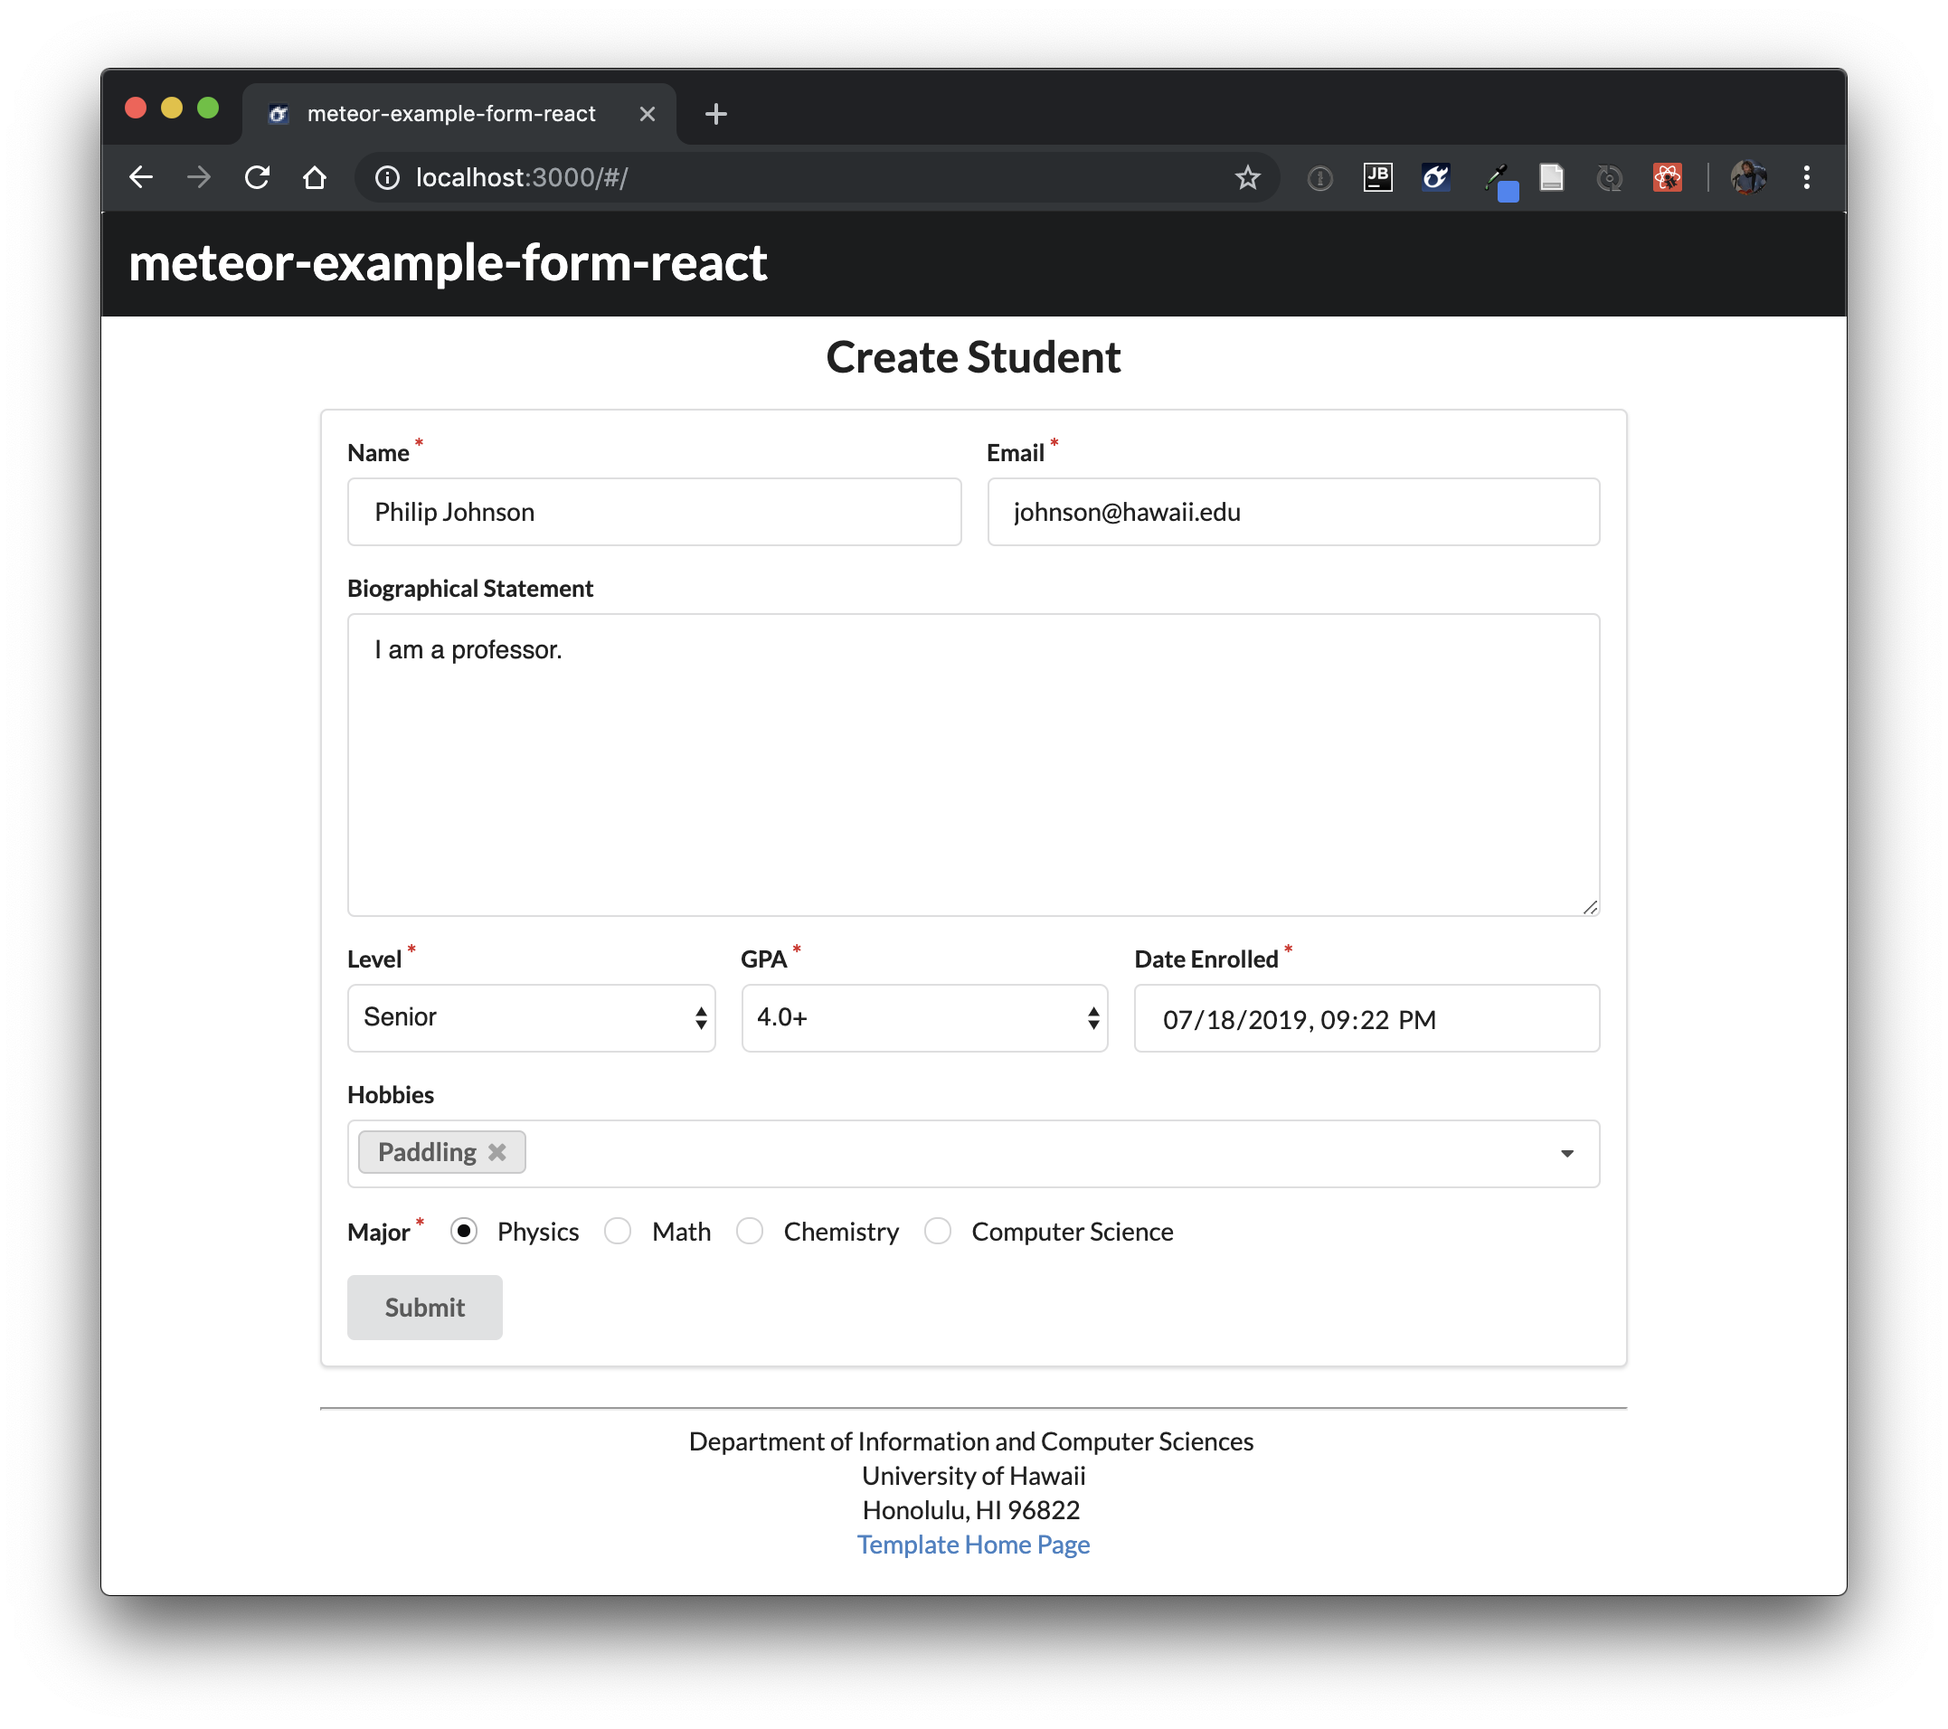
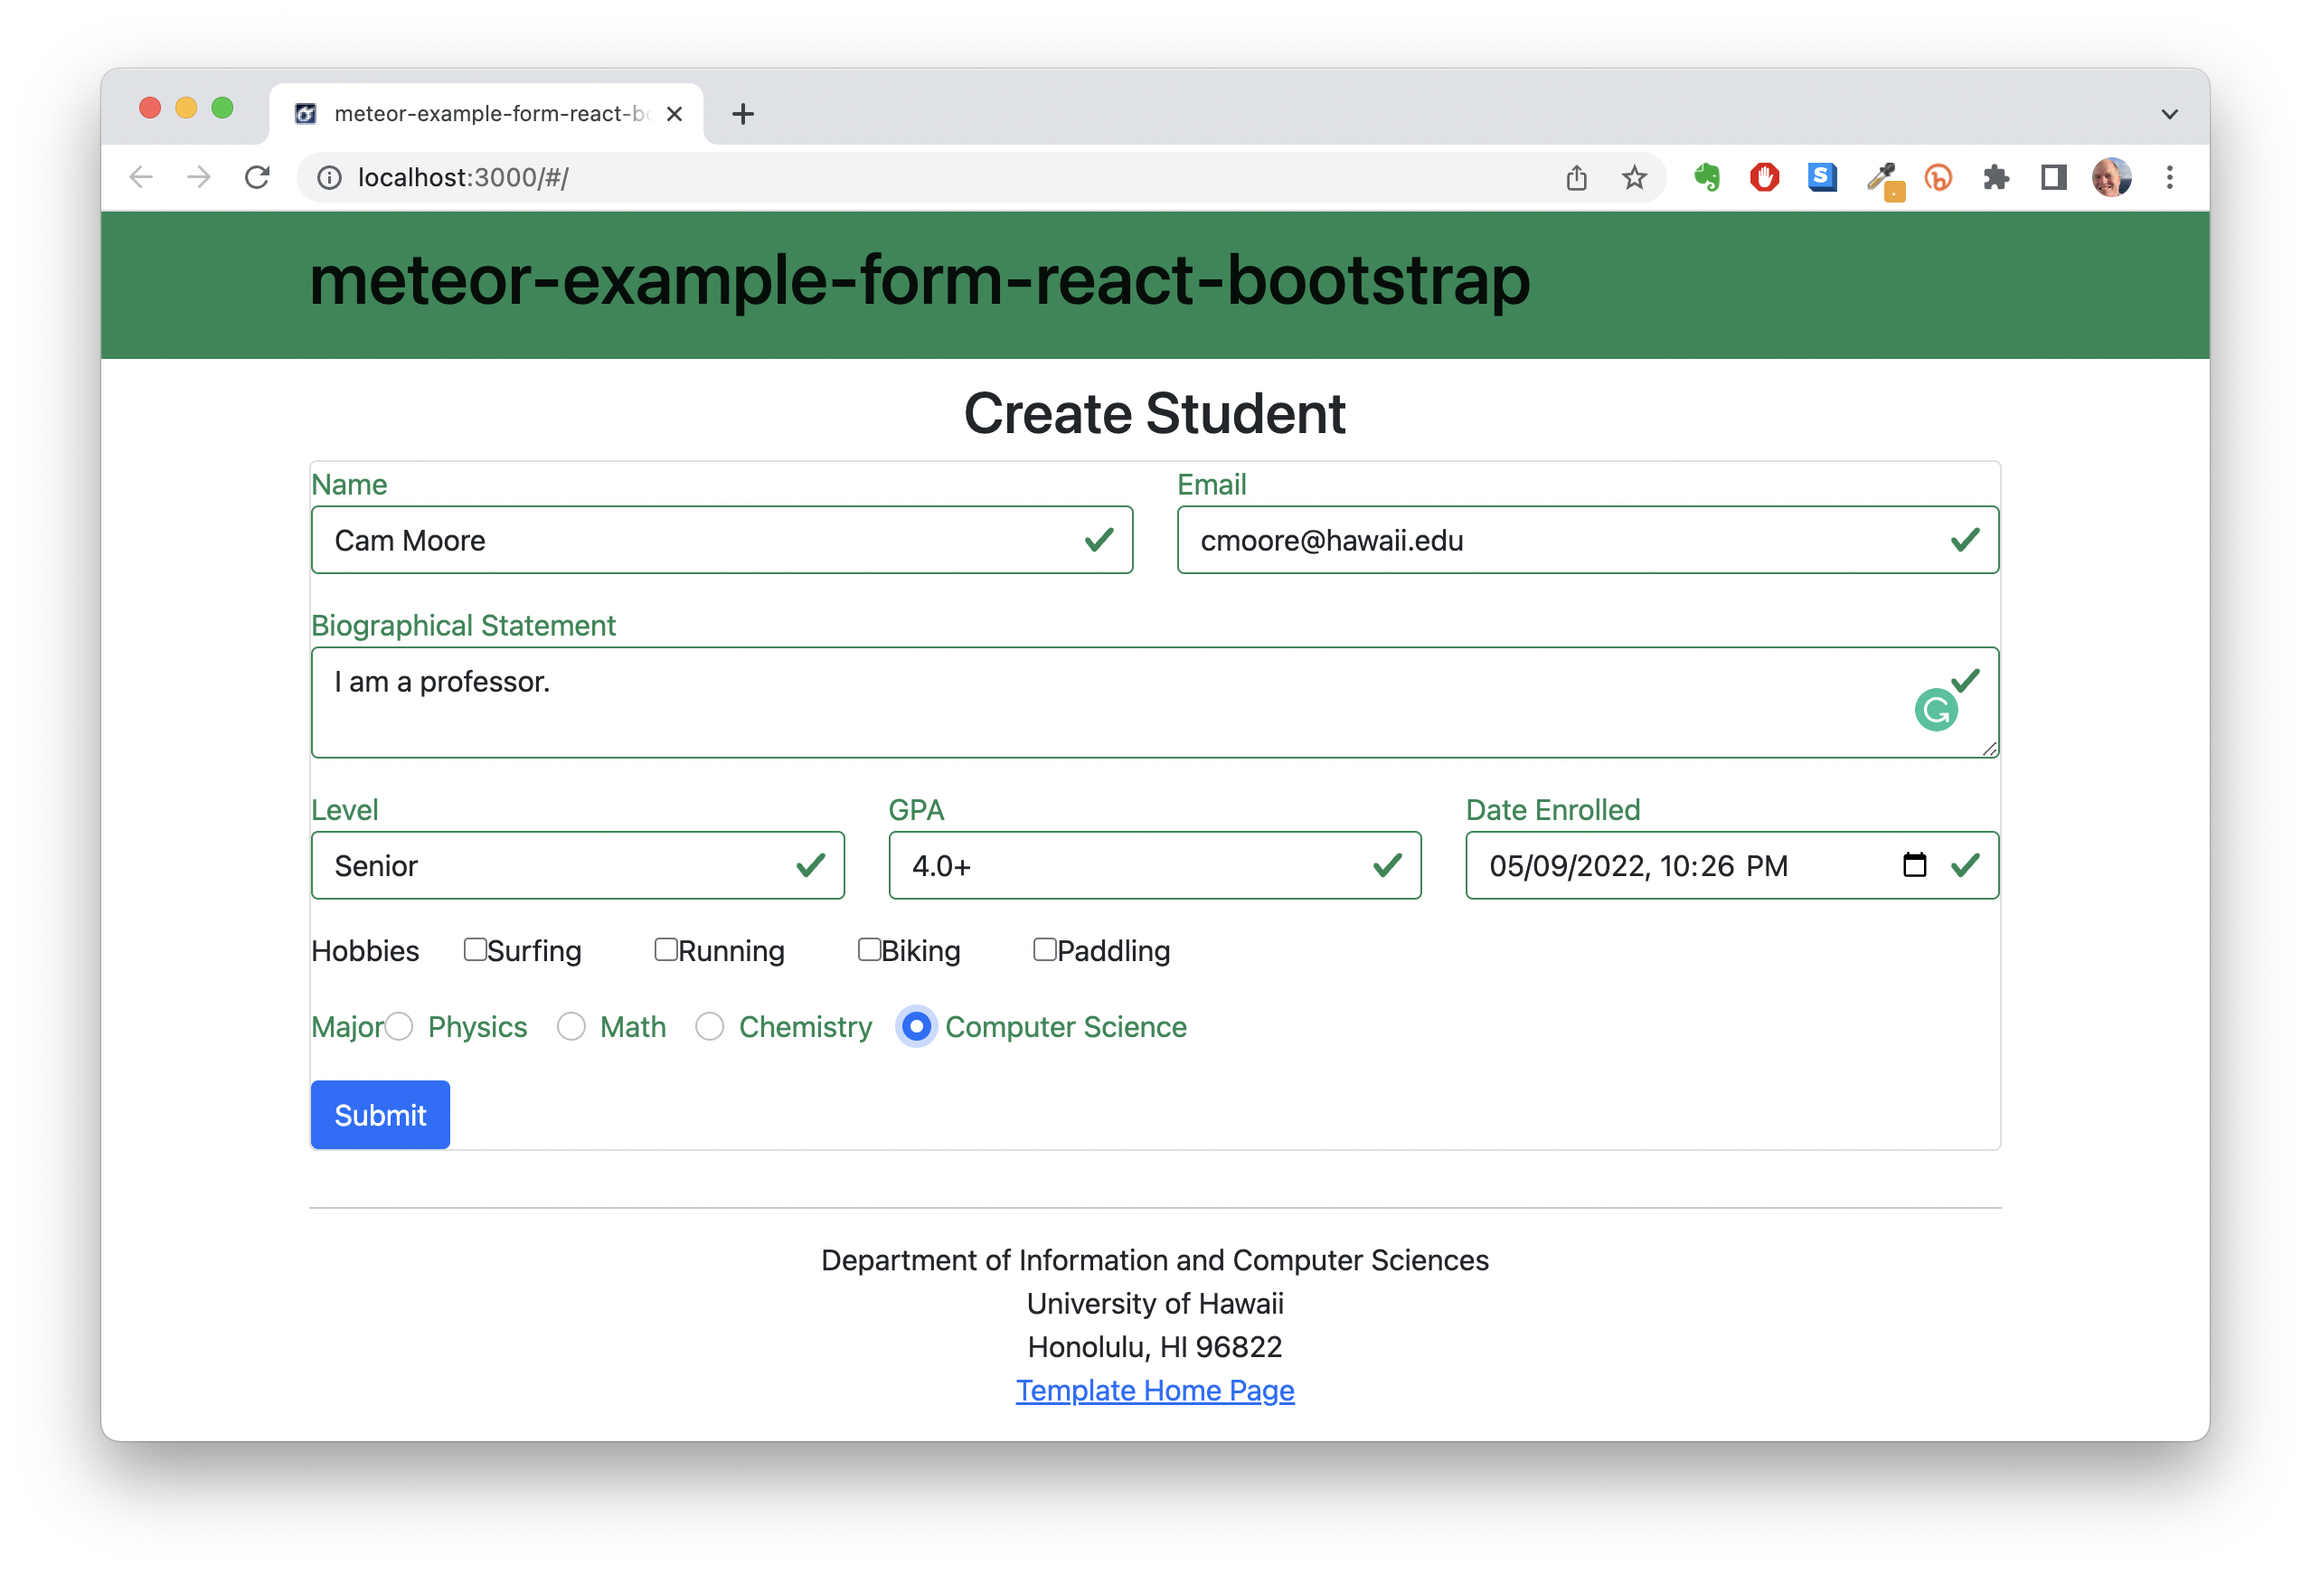
fixed the documentation.

diff --git a/app/imports/ui/components/NavBar.jsx b/app/imports/ui/components/NavBar.jsx
@@ -6,7 +6,7 @@ import { Container, Navbar } from 'react-bootstrap';
 const NavBar = () => {
   const menuStyle = { marginBottom: '10px' };
   return (
-    <Navbar bg="light" expand="lg" style={menuStyle}>
+    <Navbar bg="dark" expand="lg" style={menuStyle}>
       <Container>
         <Navbar.Brand as={NavLink} activeClassName="" exact to="/">
           <h1>meteor-example-form-react-bootstrap</h1>

diff --git a/index.md b/index.md
@@ -1,8 +1,8 @@
-![](https://raw.githubusercontent.com/ics-software-engineering/meteor-example-form-react/master/doc/create-student-page.png)
+![](https://raw.githubusercontent.com/ics-software-engineering/meteor-example-form-react-bootstrap/main/doc/create-student-page.png)
 
-meteor-example-form-react is a sample Meteor 2.4 application that illustrates how to use [Uniforms](https://uniforms.tools/) for form development.
+meteor-example-form-react is a sample Meteor 2.7.1 application that illustrates how to use [Uniforms](https://uniforms.tools/) for form development.
 
-Some of the features of this example:
+Some features of this example:
 
 * In order to focus on form processing, the application has just two pages: Create Student and Edit Student.
 * A variety of common controllers are shown: text box, text area, single selection, multiple selection, date selection, and radio boxes.
@@ -24,49 +24,25 @@ $ meteor npm install
 
 ## Running the system
 
-Once the libraries are installed, you can run the application by invoking the "start" script in the [package.json file](https://github.com/ics-software-engineering/meteor-example-form-react/blob/master/app/package.json):
+Once the libraries are installed, you can run the application by invoking the "start" script in the [package.json file](https://github.com/ics-software-engineering/meteor-example-form-react-bootstrap/blob/main/app/package.json):
 
 
 ```
-meteor npm run start
+% meteor npm run start
 
-> meteor-example-form-react@ start /Users/philipjohnson/github/ics-software-engineering/meteor-example-form-react/app
-> meteor --no-release-check --settings ../config/settings.development.json
+> meteor-example-form-react@ start /Users/carletonmoore/GitHub/ICS314/meteor-example-form-react-bootstrap/app
+> meteor --no-release-check --exclude-archs web.browser.legacy,web.cordova --settings ../config/settings.development.json
 
-[[[[[ ~/github/ics-software-engineering/meteor-example-form-react/app ]]]]]
+[[[[[ ~/GitHub/ICS314/meteor-example-form-react-bootstrap/app ]]]]]
 
-=> Started proxy.
-=> Started MongoDB.
-W20190718-11:08:30.749(-10)? (STDERR) Note: you are using a pure-JavaScript implementation of bcrypt.
-W20190718-11:08:30.770(-10)? (STDERR) While this implementation will work correctly, it is known to be
-W20190718-11:08:30.771(-10)? (STDERR) approximately three times slower than the native implementation.
-W20190718-11:08:30.771(-10)? (STDERR) In order to use the native implementation instead, run
-W20190718-11:08:30.771(-10)? (STDERR)
-W20190718-11:08:30.771(-10)? (STDERR)   meteor npm install --save bcrypt
-W20190718-11:08:30.771(-10)? (STDERR)
-W20190718-11:08:30.771(-10)? (STDERR) in the root directory of your application.
+=> Started proxy.                             
+=> Started HMR server.                        
+=> Started MongoDB.                           
+I20220509-12:33:04.931(-10)? Monti APM: completed instrumenting the app
 => Started your app.
 
 => App running at: http://localhost:3000/
 ```
-
-
-### Note regarding "bcrypt warning":
-
-You will get the following message when you run this application:
-
-```
-Note: you are using a pure-JavaScript implementation of bcrypt.
-While this implementation will work correctly, it is known to be
-approximately three times slower than the native implementation.
-In order to use the native implementation instead, run
-
-  meteor npm install --save bcrypt
-
-in the root directory of your application.
-```
-
-On some operating systems (particularly Windows), installing bcrypt is much more difficult than implied by the above message. Bcrypt is only used in Meteor for password checking, so the performance implications are negligible until your site has very high traffic. You can safely ignore this warning without any problems during initial stages of development.
 
 ### Viewing the running app
 
@@ -86,15 +62,15 @@ To best understand this application, it is useful to familiarize yourself with:
 
 * [Meteor Application Template React](http://ics-software-engineering.github.io/meteor-application-template-react/). This sample application illustrates conventions for directory layout, naming conventions, routing, integration of Semantic UI, and coding standards. Meteor-example-form is based on this template, so we won't discuss any of these issues here.
 
-* [Semantic UI React](https://react.semantic-ui.com/). We use Semantic UI for this template.
+* [Bootstrap 5 React](https://react-bootstrap.github.io/). We use Bootstrap 5 for this template.
 
-* [Uniforms](https://uniforms.tools/). Uniforms is a library for simplifying form management with React, and includes built-in integration with Semantic UI.
+* [Uniforms](https://uniforms.tools/). Uniforms is a library for simplifying form management with React, and includes built-in integration with Bootstrap 5.
 
 ## Walkthrough
 
 The landing page for this application provides the Create Student form:
 
-![](https://github.com/ics-software-engineering/meteor-example-form-react/raw/master/doc/create-student-page.png)
+![](https://github.com/ics-software-engineering/meteor-example-form-react-bootstrap/raw/master/doc/create-student-page.png)
 
 This form has the following input controls:
 
@@ -103,21 +79,21 @@ This form has the following input controls:
 * Level: select field, required. Default is Freshman
 * GPA: select field, required. User must choose one.
 * Date enrolled: date field. Defaults to current time and day.
-* Hobbies: multiple select field (custom implementation of a Uniform controller, code is [here](https://github.com/ics-software-engineering/meteor-example-form-react/blob/master/app/imports/ui/forms/controllers/MultiSelectField.jsx)).
-* Major: select field implemented as Radio buttons (custom implementation to provide inline layout, code is [here](https://github.com/ics-software-engineering/meteor-example-form-react/blob/master/app/imports/ui/forms/controllers/RadioField.jsx)).
+* Hobbies: multiple select field.
+* Major: select field implemented as Radio buttons.
 
 A filled out but not yet submitted Create Student form looks like this:
 
 
-![](https://github.com/ics-software-engineering/meteor-example-form-react/raw/master/doc/create-student-page-filled-in.png)
+![](https://github.com/ics-software-engineering/meteor-example-form-react-bootstrap/raw/main/doc/create-student-page-filled-in.png)
 
 After submission, the page pops up an alert showing the submission was successful:
 
-![](https://github.com/ics-software-engineering/meteor-example-form-react/raw/master/doc/create-student-page-submitted.png)
+![](https://github.com/ics-software-engineering/meteor-example-form-react-bootstrap/raw/main/doc/create-student-page-submitted.png)
 
 Also note that after dismissing the alert, there is a link of the Create Student page to a page where you can edit the document. Here is this page:
 
-![](https://github.com/ics-software-engineering/meteor-example-form-react/raw/master/doc/edit-student-page.png)
+![](https://github.com/ics-software-engineering/meteor-example-form-react-bootstrap/raw/main/doc/edit-student-page.png)
 
 You can edit the fields, then click 'Update' to save the changes.
 
